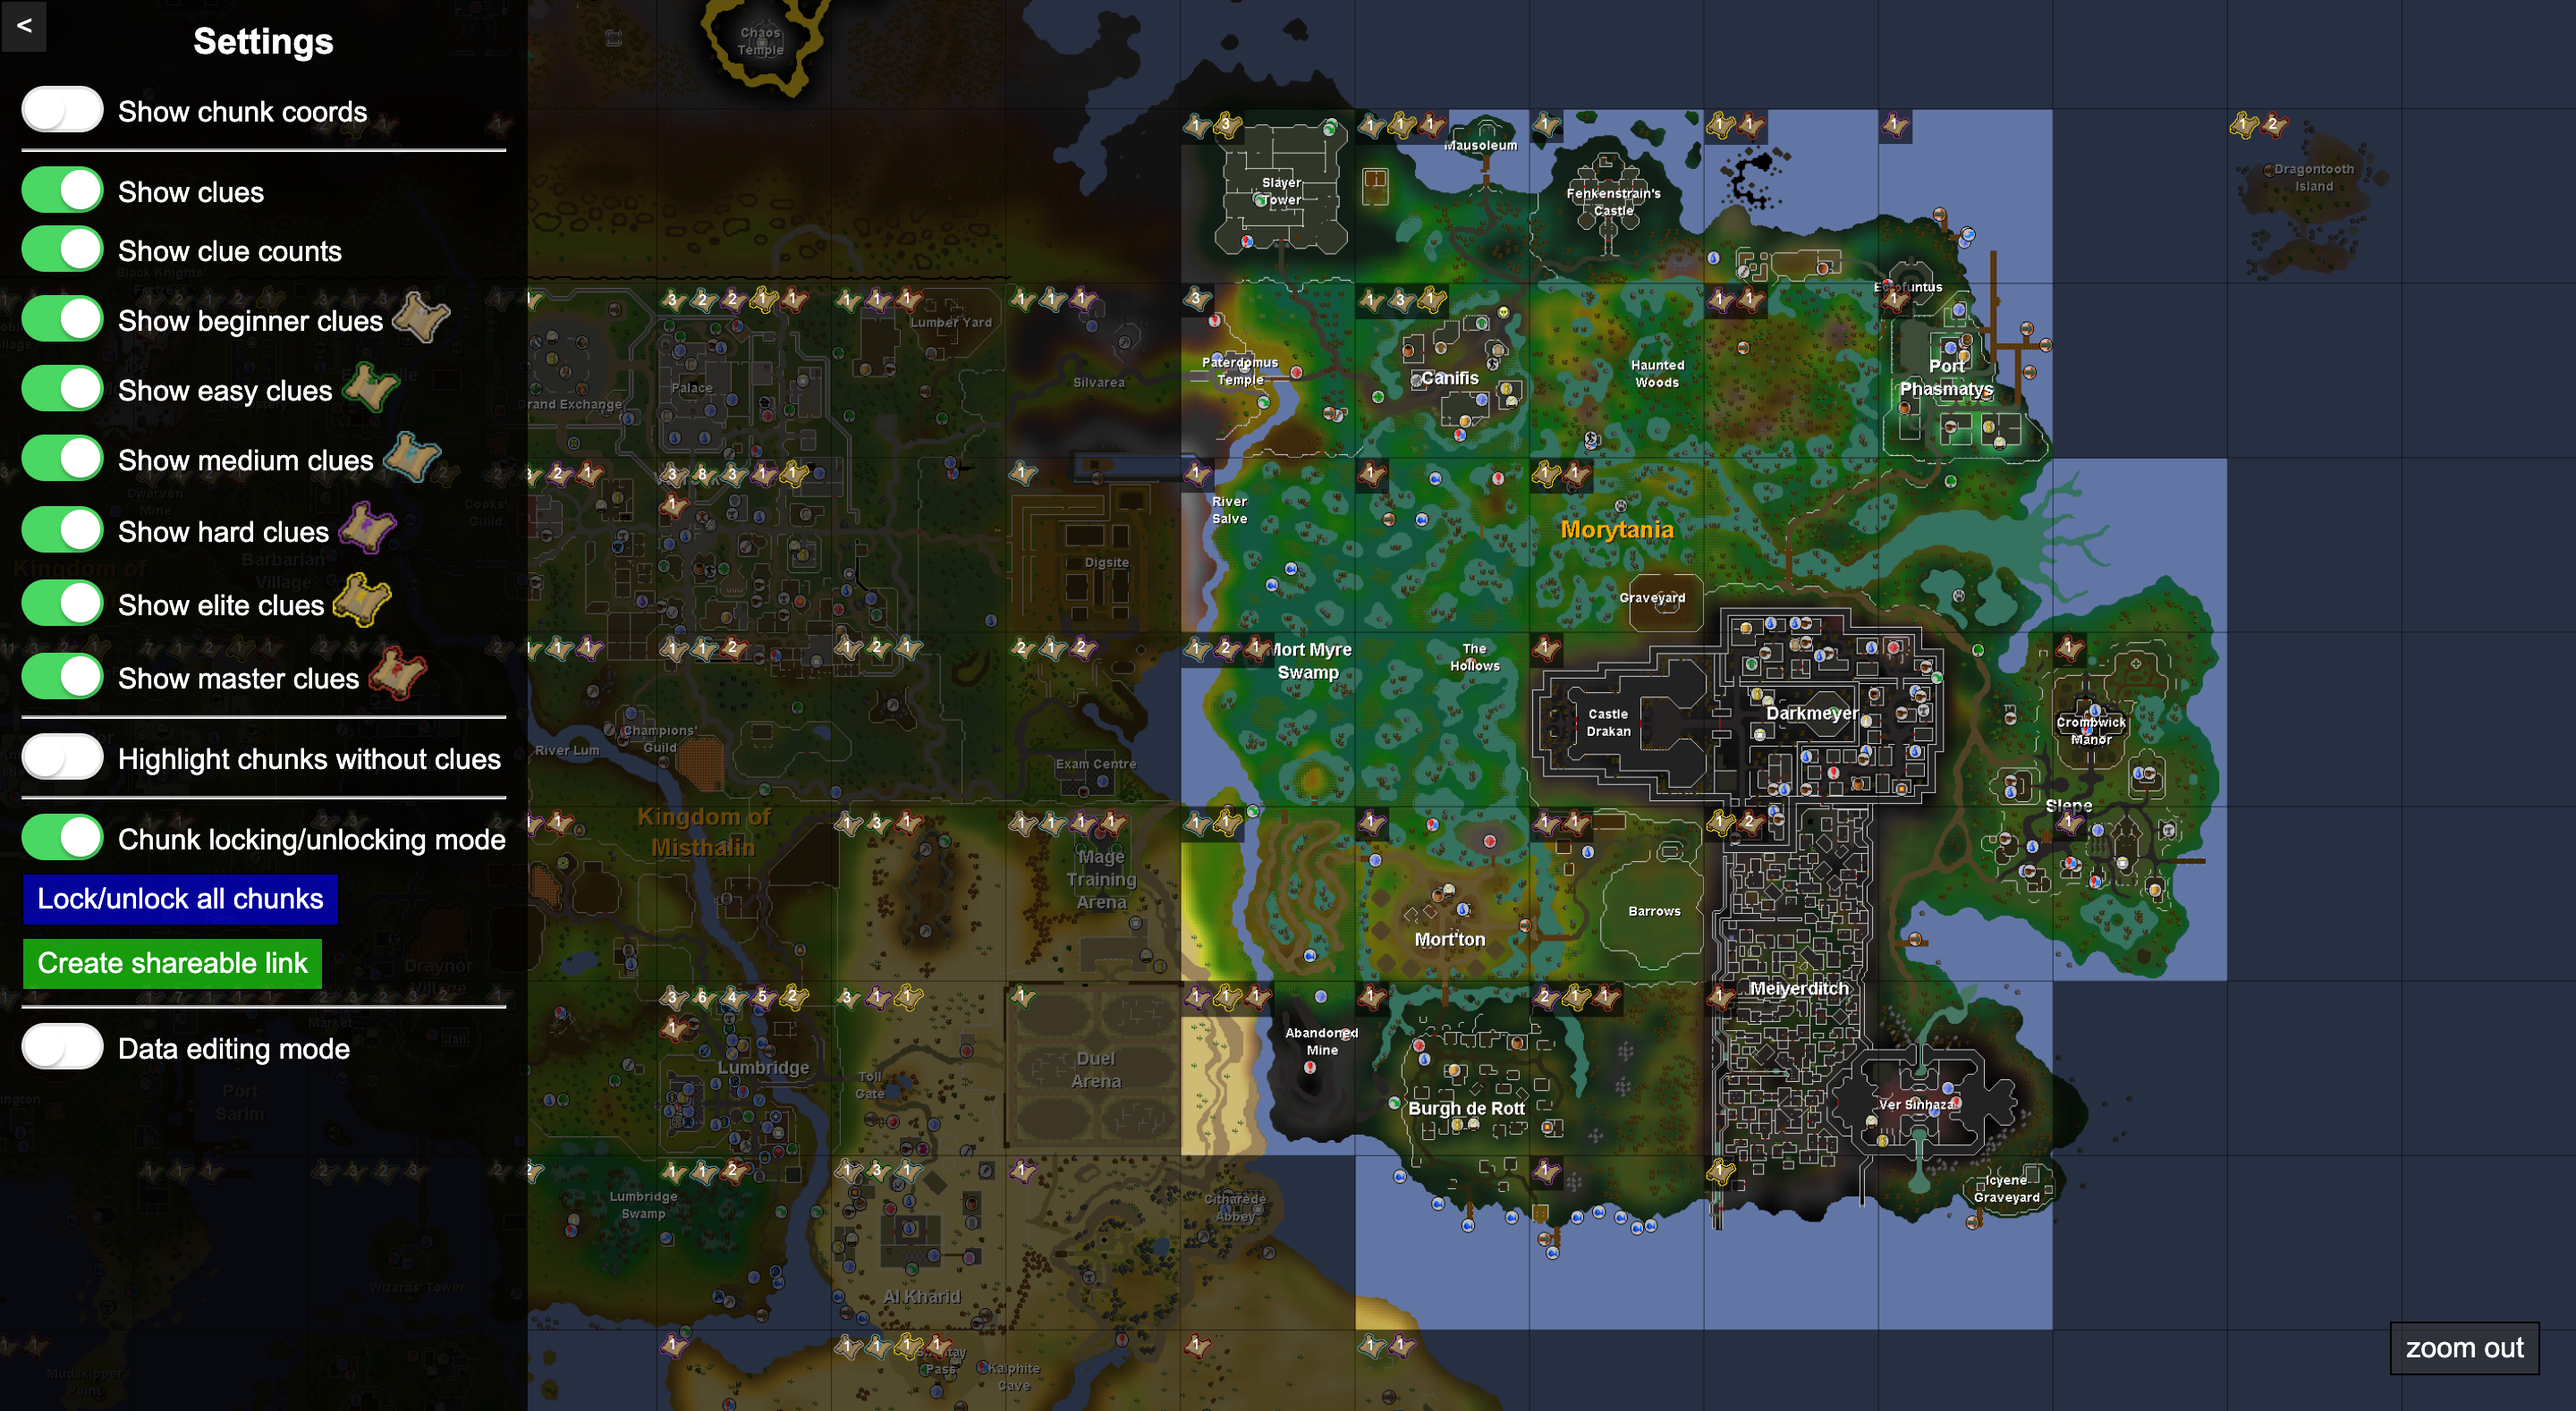
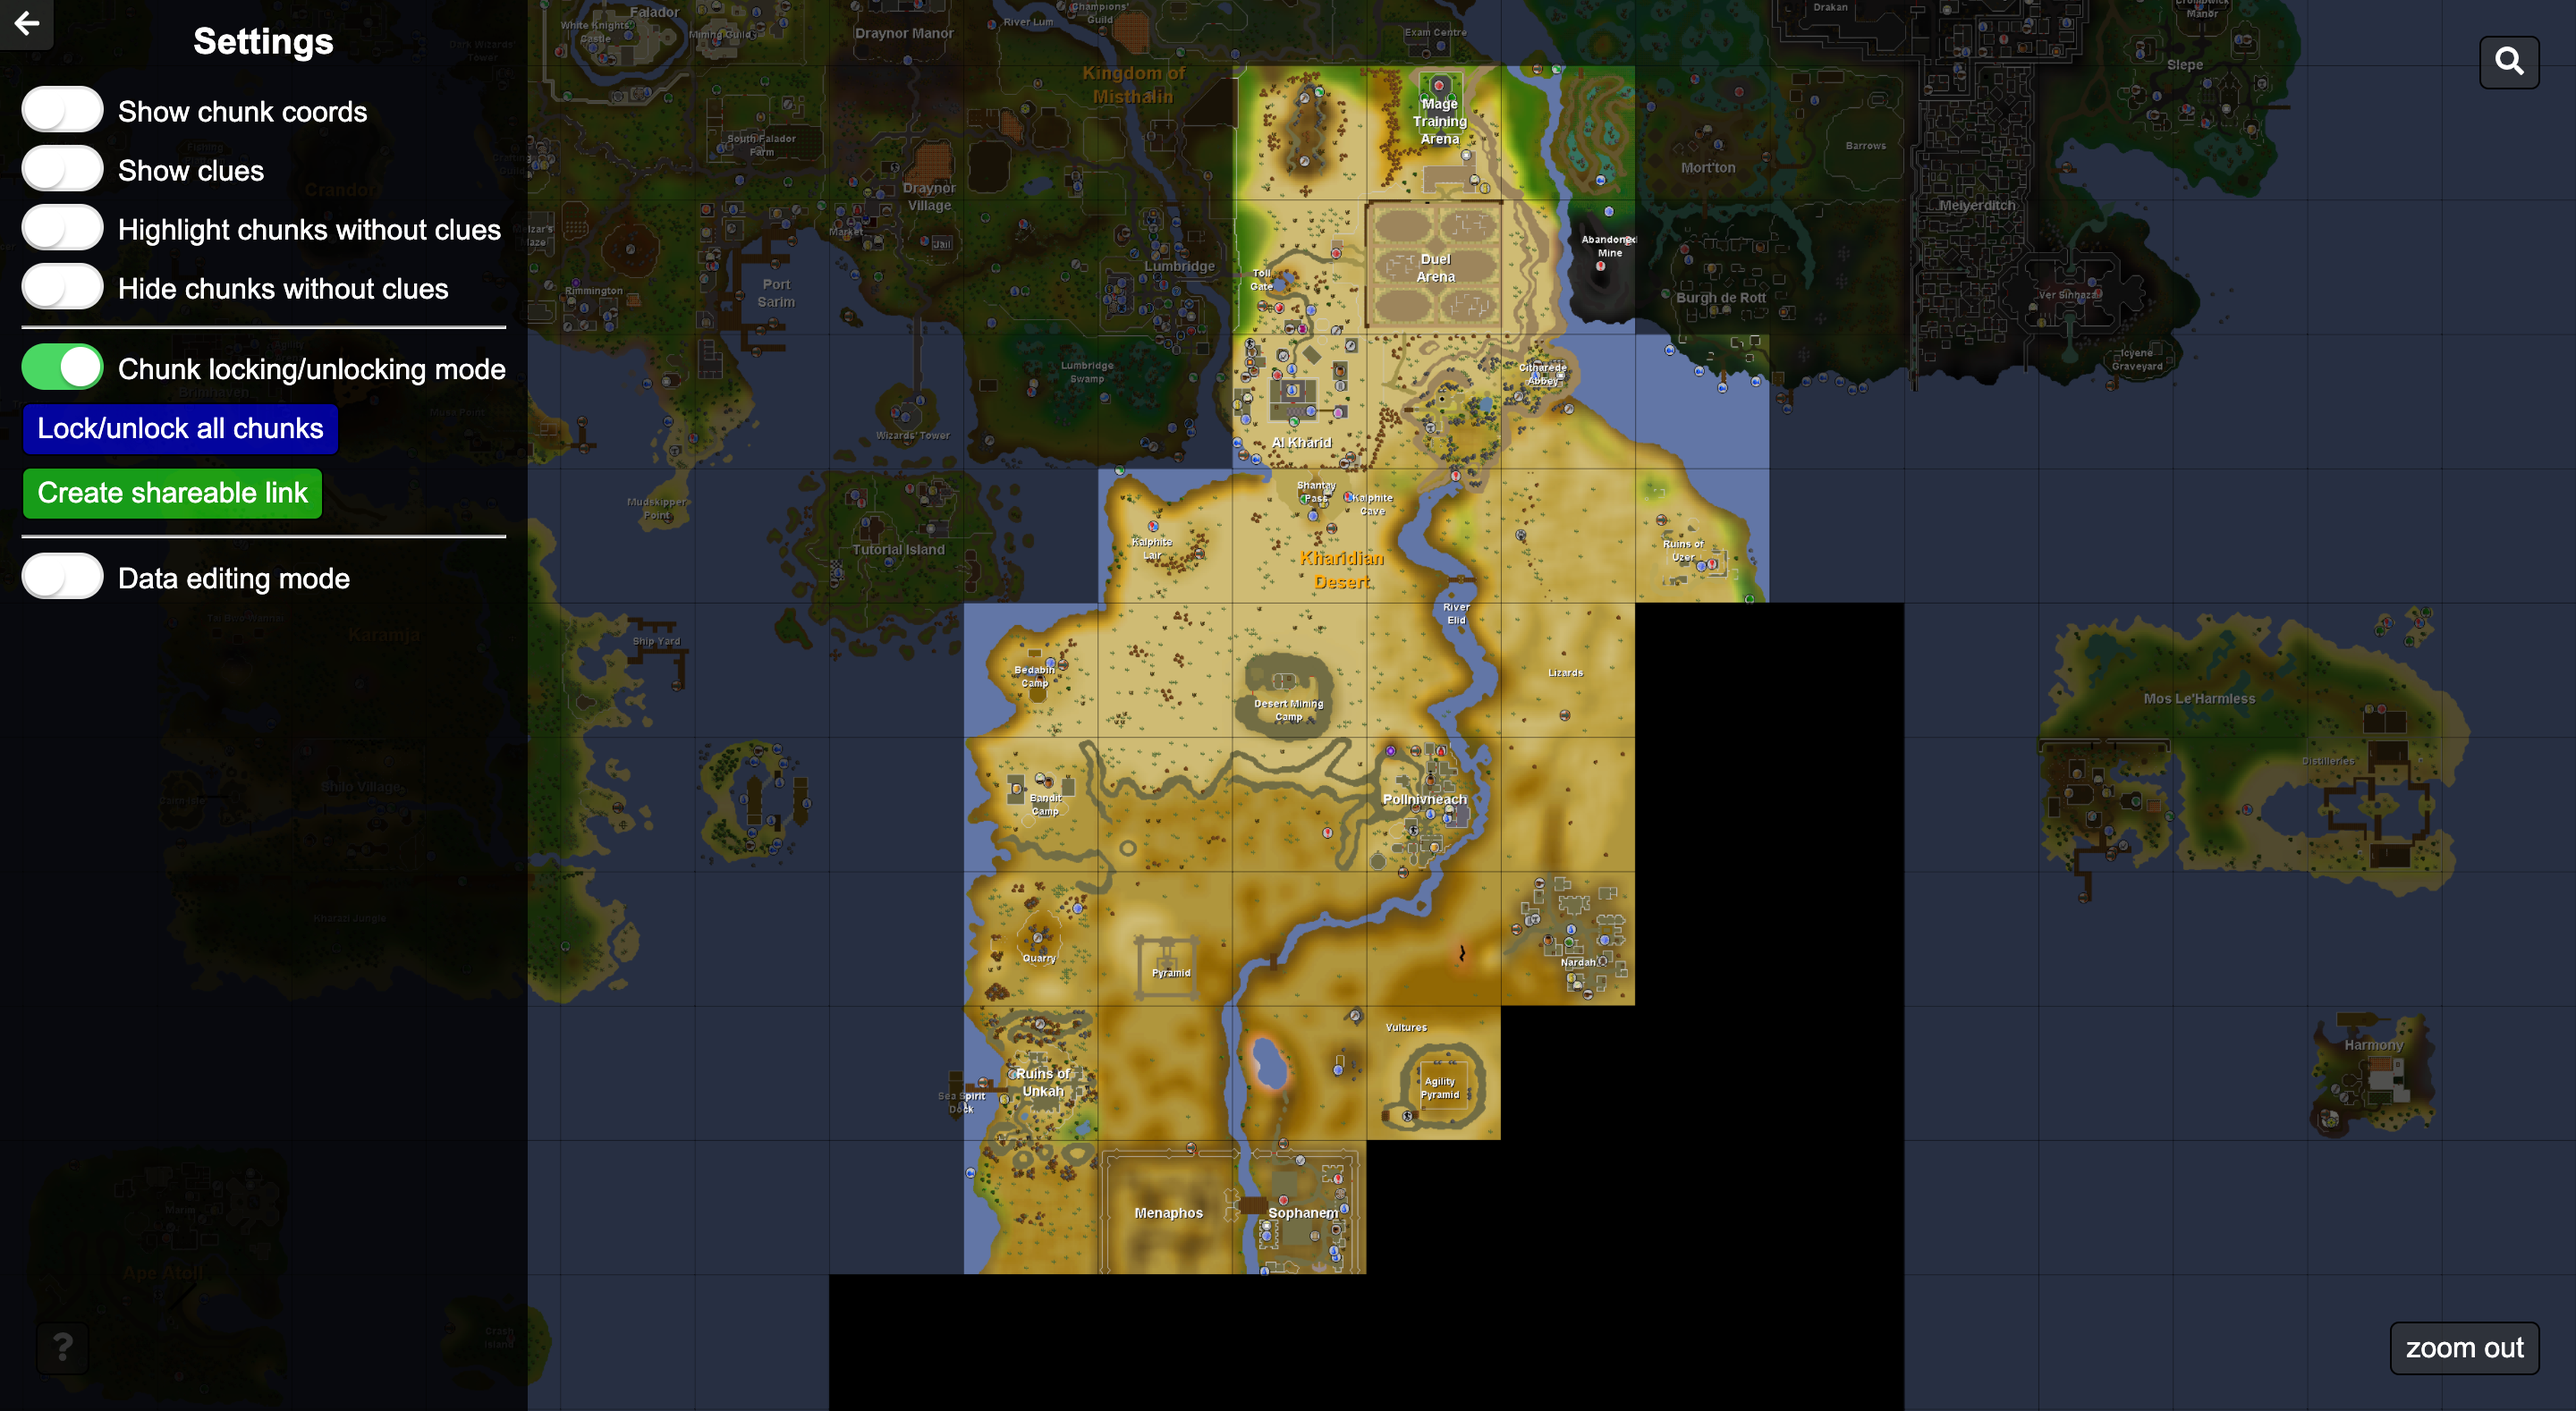
new release: 1.1.0

diff --git a/src/components/InfoModal.tsx b/src/components/InfoModal.tsx
@@ -12,6 +12,19 @@ const InfoModal: React.FC = () => {
         <li>Use your mouse's scroll wheel to zoom in and out.</li>
         <li>Click on a chunk to show the clue data for that chunk.</li>
         <li>
+          Click on the search icon in the top right to open the search modal.
+          <ul>
+            <li>
+              You can search for clue steps by their clue text or by what items
+              are required.
+            </li>
+            <li>
+              You can search for STASH units by what items can be stored in
+              them.
+            </li>
+          </ul>
+        </li>
+        <li>
           Turn on "Chunk locking/unlocking mode" then click a chunk to toggle
           whether it is locked or unlocked.
           <ul>

diff --git a/README.md b/README.md
@@ -2,13 +2,15 @@
 
 This is a tool for viewing what clues are available within each map chunk of Old School RuneScape.
 
-![The map of Gielinor](./screenshots/Map-1.png)
+![The map of Gielinor showing what clue steps are available in each chunk](./screenshots/Map-1.png)
 
 ![Sidebar showing settings](./screenshots/Map-2.png)
 
 ![Chunk locking/unlocking mode](./screenshots/Map-3.png)
 
 ![Clue data for a chunk](/screenshots/Modal-1.png)
+
+![Searching clue steps and STASH units](/screenshots/Search-1.png)
 
 If you see a mistake or would like to request a feature, please [let us know](https://github.com/okyloky9/osrschunk/issues/new).
 
@@ -17,6 +19,9 @@ If you see a mistake or would like to request a feature, please [let us know](ht
 - Click and move your mouse to pan.
 - Use your mouse's scroll wheel to zoom in and out.
 - Click on a chunk to show the clue data for that chunk.
+- Click on the search icon in the top right to open the search modal.
+  - You can search for clue steps by their clue text or by what items are required.
+  - You can search for STASH units by what items can be stored in them.
 - Turn on "Chunk locking/unlocking mode" then click a chunk to toggle whether it is locked or unlocked.
   - Use the "Lock/unlock all chunks" button to toggle the state of all chunks.
   - Unlocked chunks will be saved locally.
